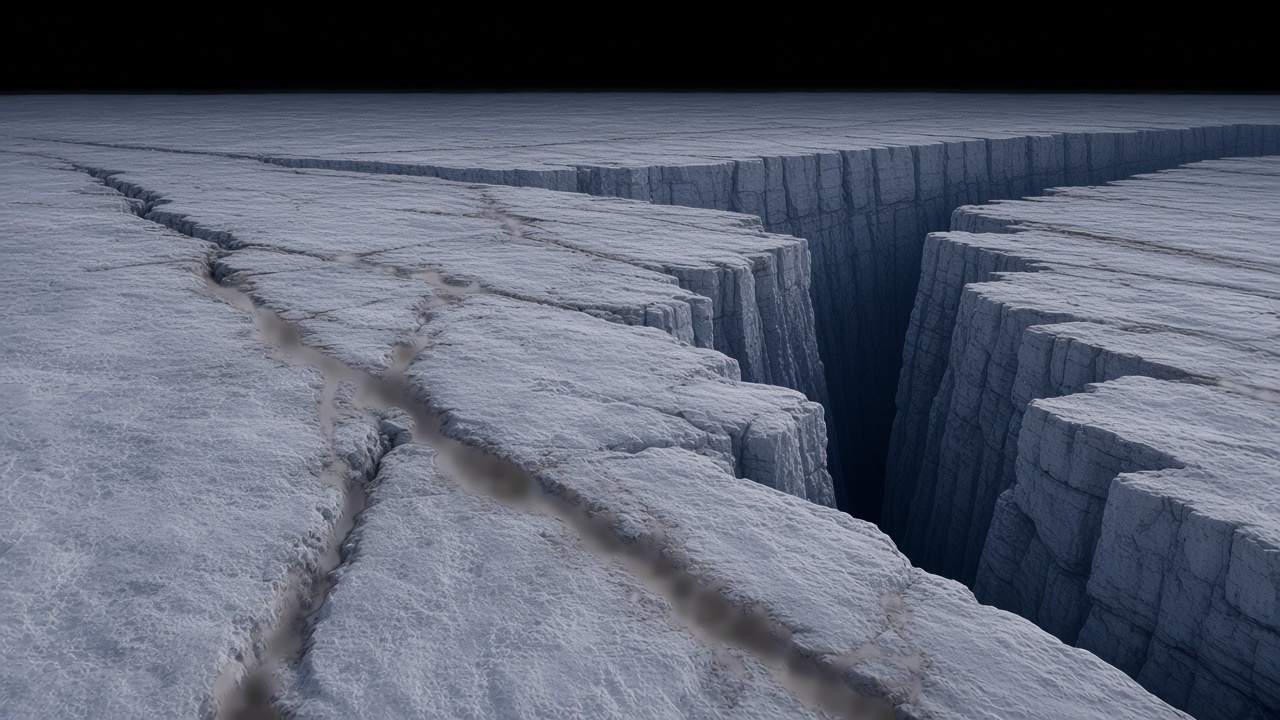
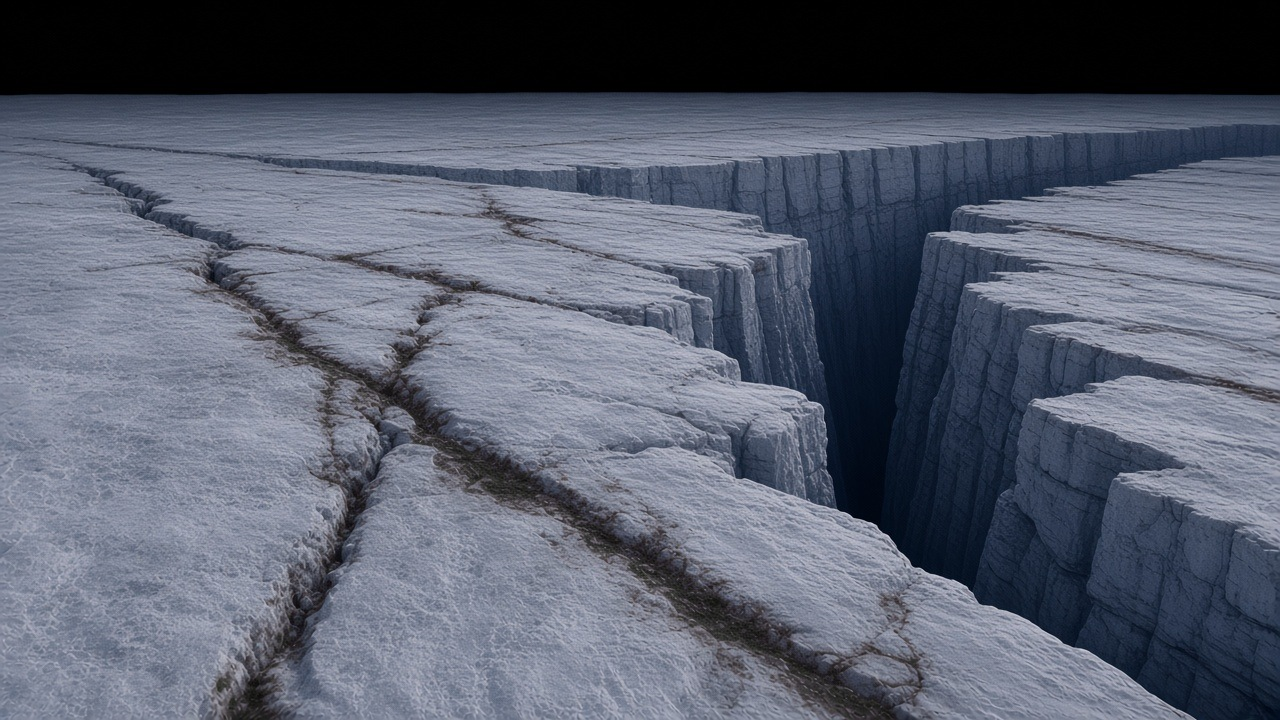
Build Nov 2 r11f: Fissure left/right pictures and fades back to r9, front v6 kept (test)

diff --git a/surface/src/main.js b/surface/src/main.js
@@ -421,14 +421,14 @@ scene.add(ground);
 // Shared: ground, sky, lights. Per-location: features + high-res textures.
 /* version labels: shown on the desktop HUD and in the headset (look down for the scene menu).
  * Bump BUILD and the scene's entry whenever a scene's pictures or wiring change. */
-const BUILD = 'Build Nov 2 r11u naked-eye Upscayl sky';
+const BUILD = 'Build Nov 2 r11f Fissure sides back to r9';
 { const b = document.querySelector('#hud .build'); if (b) b.textContent = BUILD; }
 const SCENE_VER = {
   'open-ice': 'v9 soft rear blend',
   crevasse: 'v3 clean horizon',
   ridge: 'v8 static haze, one texture',
   chaos: 'v3 Imagine, soft seams',
-  fissure: 'v6 cracks and crevice softened',
+  fissure: 'v7 sides back to r9, front v6',
   cavern: 'v1 jellies'
 };
 const locationGroups = new Map();
@@ -775,8 +775,8 @@ registerLocation({
     const side = { arcDeg: 116, order: 11, horizon: 0.125, keySky: true, keyLo: 0.012, keyHi: 0.022, keyBand: [0.84, 0.86] };
     addVista(group, this, { vistas: [
       { url: './assets/fissure-vantage-vista.jpg?v=11', yawDeg: 0, arcDeg: 116, horizon: 0.125, order: 12, sideFade: 0.30, keySky: true, keyLo: 0.030, keyHi: 0.050, keyBand: [0.85, 0.89] },
-      { ...side, url: './assets/vistas/fissure-left.jpg?v=10',  yawDeg: -75, sideFade: [0.30, 0.38], bright: 1.4 },
-      { ...side, url: './assets/vistas/fissure-right.jpg?v=10', yawDeg: 75,  sideFade: [0.38, 0.30], bright: 0.95 },
+      { ...side, url: './assets/vistas/fissure-left.jpg?v=r9',  yawDeg: -75, sideFade: [0.30, 0.04], bright: 1.4 },
+      { ...side, url: './assets/vistas/fissure-right.jpg?v=r9', yawDeg: 75,  sideFade: [0.04, 0.30], bright: 0.95 },
       { ...side, url: './assets/vistas/fissure-back.jpg',  yawDeg: 180, arcDeg: 140, order: 10, sideFade: 0.25, edgeGain: [2.3, 4.0, 0.45], horizon: 0.252, keyBand: [0.738, 0.768] }   // Scott's Imagine render (3072 wide), horizon row measured
     ] });
     addHaze(group, this, { yawDeg: -44, arcDeg: 44, alpha: 0.32, top: -26 });   // static haze over the soft joins, so they read as weather
